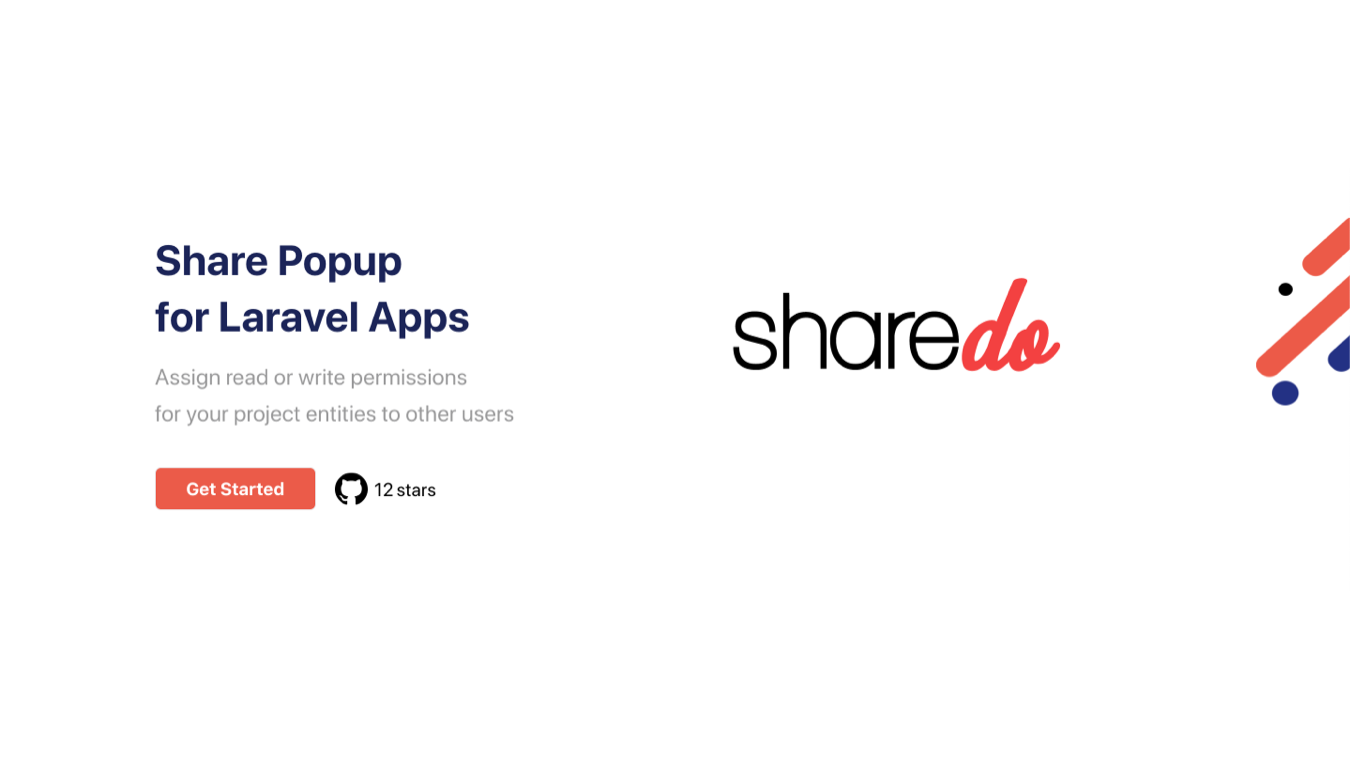
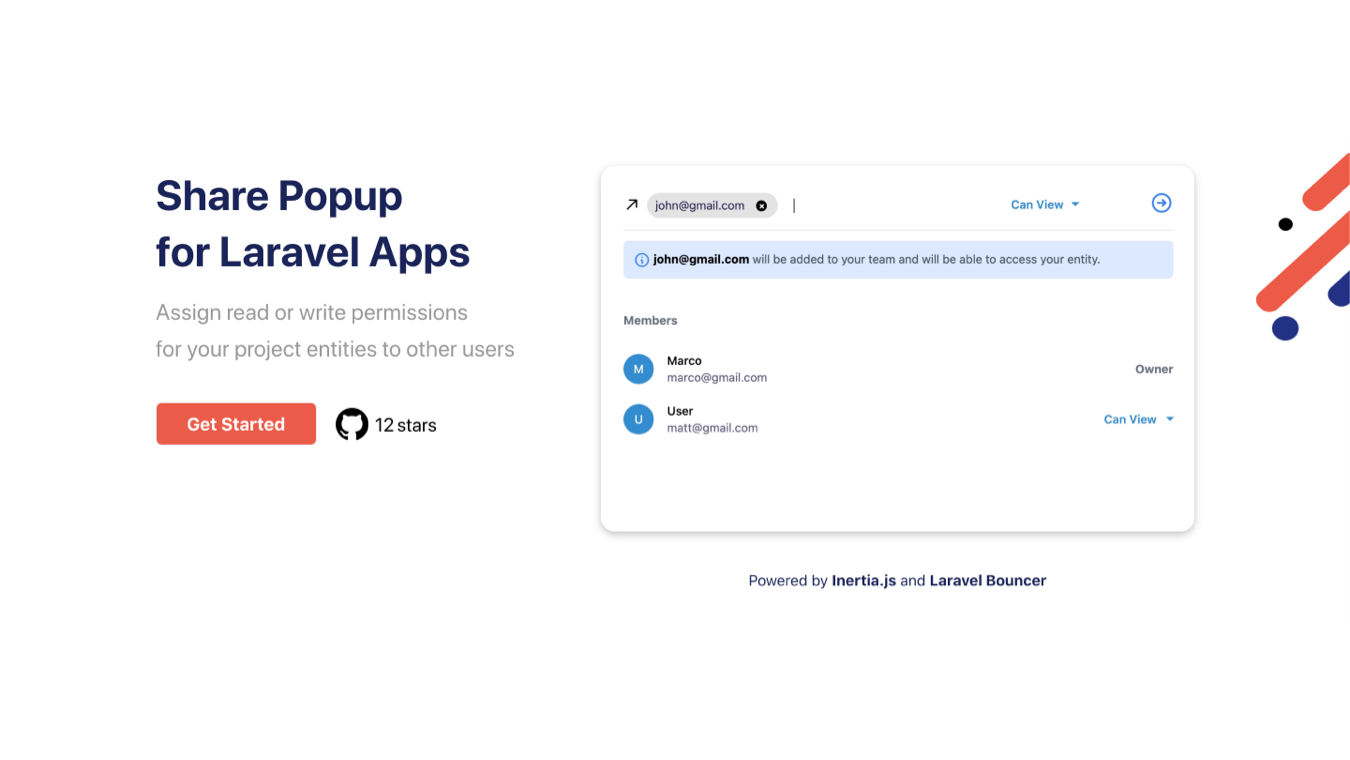
changed og image and added powered by tag

diff --git a/src/pages/index.js b/src/pages/index.js
@@ -780,8 +780,16 @@ function Home() {
           <div className="row pt-4 bg-primary powered-by">
             <div class="col col--5"></div>
             <div class="col col--7">
-              Powered by <strong>Inertia.js</strong> and{" "}
-              <strong>Laravel Bouncer</strong>
+              Powered by{" "}
+              <strong>
+                <a href="https://inertiajs.com/">Inertia.js</a>
+              </strong>{" "}
+              and{" "}
+              <strong>
+                <a href="https://github.com/JosephSilber/bouncer">
+                  Laravel Bouncer
+                </a>{" "}
+              </strong>
             </div>
           </div>
         </div>

diff --git a/src/css/custom.css b/src/css/custom.css
@@ -264,3 +264,10 @@ html[data-theme="light"] .navbar {
 html[data-theme="dark"] .powered-by {
   color: #fff;
 }
+html[data-theme="dark"] .powered-by a {
+  color: #fff;
+}
+html[data-theme="light"] .powered-by a,
+.powered-by {
+  color: black;
+}
